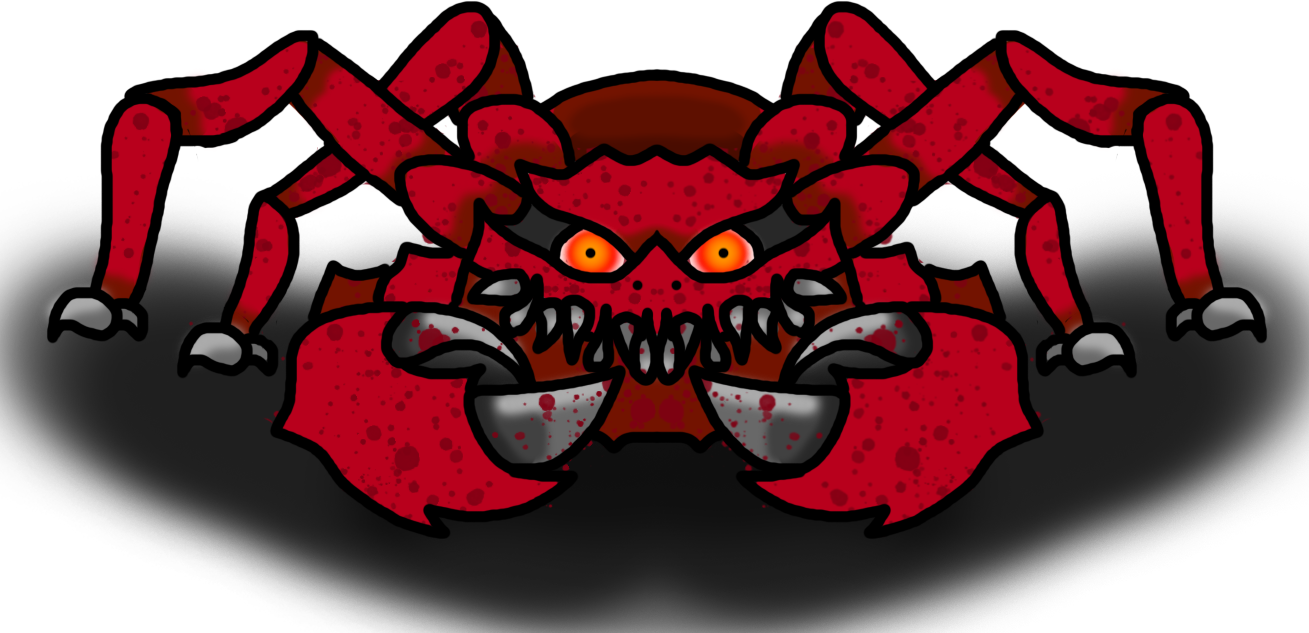
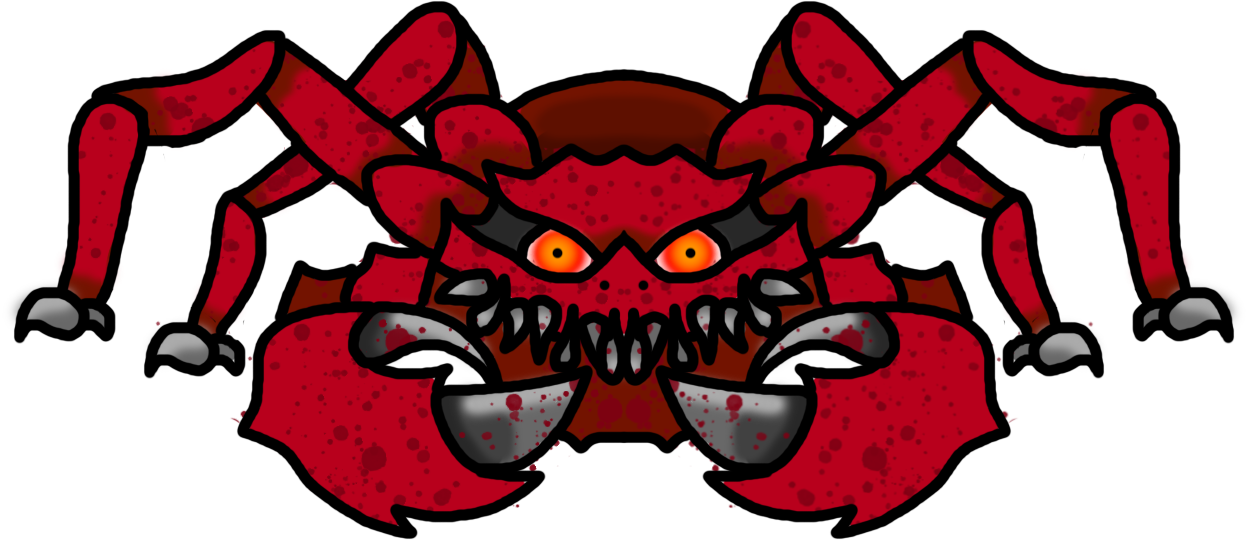
Pickup-able Items

diff --git a/GLFramework/SDL_Template/PlayScreen.cpp b/GLFramework/SDL_Template/PlayScreen.cpp
@@ -49,9 +49,17 @@ PlayScreen::PlayScreen() {
 
 	delete mGUI;
 	mGUI = new GUIManager("E");
-	mGUI->Parent(mCrystal);
-	mGUI->Position(Vector2(80.0f, -80.0f));
+	mGUI->Parent(this);
+	mGUI->Position(mCrystal->Position());
 	mGUI->Active(true);
+
+	mRuinsBackground = new GLTexture("RuinsBackground.png");
+	mRuinsBackground->Parent(this);
+	mRuinsBackground->Position(Graphics::SCREEN_WIDTH * 0.5f, Graphics::SCREEN_HEIGHT * 0.5f);
+	mRuinsBackground->Active(true);
+
+	mSpawnCrabShell = false;
+	mSpawnItemLock = false;
 
 	SDL_ShowCursor(SDL_DISABLE);
 }
@@ -80,6 +88,9 @@ PlayScreen::~PlayScreen() {
 
 	delete mGUI;
 	mGUI = nullptr;
+
+	delete mRuinsBackground;
+	mRuinsBackground = nullptr;
 }
 
 void PlayScreen::Update() {
@@ -94,12 +105,30 @@ void PlayScreen::Update() {
 		}
 	}
 	
+	mRuinsBackground->Update();
 	mGUI->Update();
 	mPlayer->Update();	
 	mCursor->Update();
 	mInventory->Update();
 	mGun->Update();
 	mCrystal->Update();
+
+	for (auto it = mDroppedItems.begin(); it != mDroppedItems.end(); ) {
+		(*it)->Update();
+
+		if ((*it)->GetGiveItem() == true) {
+			mInventory->AddItem((*it)->GetTag());
+			(*it)->SetGiveItem(false);
+
+			mDelDroppedItems.push_back(*it);
+			it = mDroppedItems.erase(it);
+		}
+		else {
+			++it;
+		}
+		
+	}
+
 	mCursor->Position(mInput->MousePosition());
 	MenuOpen();
 
@@ -108,23 +137,49 @@ void PlayScreen::Update() {
 		mCrystal->SetGiveItem(false);
 	}
 
+	
+
 	mGun->SetTargetPos(mPlayer->Position());
 
+	if (!mSpawnItemLock) {
+		if (mTarantuCrab == nullptr) {
+			//mSpawnCrabShell = true; 
+			SpawnDroppedItem();
+			mSpawnItemLock = true;
+		}
+	}
+	
+	for (auto b : mDelDroppedItems) {
+		delete b;
+	}
+	mDelDroppedItems.clear();
 }
 
 void PlayScreen::Render() {
 
-	if (mTarantuCrab != nullptr) {
-		mTarantuCrab->Render();
-	}
+	mRuinsBackground->Render();
+
+	if (mTarantuCrab != nullptr) { mTarantuCrab->Render(); }
 	
 	mCrystal->Render();
+
+	for (auto it = mDroppedItems.begin(); it != mDroppedItems.end(); ++it) {
+		(*it)->Render();
+		if ((*it) != nullptr && (*it)->GetRenderGUI() == true) {
+			mGUI->Position((*it)->Position()); mGUI->Render();
+		}
+		
+	}
+
 	mPlayer->Render();
 	mGun->Render();
 	mInventory->Render();
 	mCursor->Render();
 
-	if (mCrystal->GetRenderGUI() == true) { mGUI->Render(); }
+	if (mCrystal->GetRenderGUI() == true) { 
+		mGUI->Position(mCrystal->Position()); mGUI->Render();
+	}
+
 }
 
 void PlayScreen::MenuOpen() {
@@ -134,4 +189,13 @@ void PlayScreen::MenuOpen() {
 	else {
 		mGun->CanShoot(true);
 	}
+}
+
+void PlayScreen::SpawnDroppedItem() {
+	mDroppedCrabShell = new WorldItem("crab shell");
+	mDroppedCrabShell->Parent(this);
+	mDroppedCrabShell->Position(Graphics::SCREEN_WIDTH * 0.5f, Graphics::SCREEN_HEIGHT * 0.5f);
+	mDroppedCrabShell->Active(true);
+	mDroppedCrabShell->SetTag("crab shell");
+	mDroppedItems.push_back(mDroppedCrabShell);
 }

diff --git a/GLFramework/SDL_Template/WorldItem.cpp b/GLFramework/SDL_Template/WorldItem.cpp
@@ -25,6 +25,11 @@ WorldItem::WorldItem(std::string texture) {
 	mMinedCrystal->Position(Vec2_Zero);
 	mMinedCrystal->Scale(Vector2(0.10f, 0.10f));
 
+	mDroppedCrabShell = new GLTexture("CrabShell.png");
+	mDroppedCrabShell->Parent(this);
+	mDroppedCrabShell->Position(Vec2_Zero);
+	mDroppedCrabShell->Scale(Vector2(0.10f, 0.10f));
+
 	AddCollider(new CircleCollider(mCrystal->ScaledDimensions().y));
 
 	mId = PhysicsManager::Instance()->RegisterEntity(this, PhysicsManager::CollisionLayers::Hostile);
@@ -41,6 +46,8 @@ WorldItem::~WorldItem() {
 	delete mMinedCrystal;
 	mMinedCrystal = nullptr;
 
+	delete mDroppedCrabShell;
+	mDroppedCrabShell = nullptr;
 }
 
 bool WorldItem::IgnoreCollisions()	{
@@ -56,9 +63,9 @@ void WorldItem::Hit(PhysEntity* other) {
 void WorldItem::Update() {
 	mRenderGUI = false;
 	
-	if (mTexture == "crystal") { mCrystal->Update(); }
-	if (mTexture == "crystal") { mMinedCrystal->Update(); }
-
+	if (mTexture == "crystal") { mCrystal->Update(); mMinedCrystal->Update(); }
+	else if (mTexture == "crab shell") { mDroppedCrabShell->Update(); }
+	
 	if (!mMined && mWasHit) { mRenderGUI = true; }
 	else { mRenderGUI = false; }
 
@@ -68,7 +75,9 @@ void WorldItem::Update() {
 			mGiveItem = true;
 		}
 		mWasHit = false;
-	}	
+	}
+
+	std::cout << mTag << " " << mRenderGUI << std::endl;
 }
 
 void WorldItem::Render() {
@@ -77,6 +86,11 @@ void WorldItem::Render() {
 			mCrystal->Render();
 		}
 		else { mMinedCrystal->Render(); }
+	}
+	else if (mTexture == "crab shell") {
+		if (mMined == false) {
+			mDroppedCrabShell->Render();
+		}
 	}
 
 	PhysEntity::Render();

diff --git a/GLFramework/SDL_Template/Enemy.cpp b/GLFramework/SDL_Template/Enemy.cpp
@@ -21,8 +21,13 @@ Enemy::Enemy() {
 
 	mEyeLids = new GLTexture("Tarantu-Crab EyeLids.png");
 	mEyeLids->Parent(this);
-	mEyeLids->Position(Vector2(0.0f, -50.0f));
+	mEyeLids->Position(Vector2(0.0f, -15.0f));
 	mEyeLids->Scale(Vector2(0.750f, 0.750f));
+
+	mShadow = new GLTexture("Tarantu-Crab Shadow.png");
+	mShadow->Parent(this);
+	mShadow->Position(Vector2(0.0f, 75.0f));
+	mShadow->Scale(Vector2(0.750f, 0.750f));
 
 	delete mEGun;
 	mEGun = new Gun();
@@ -49,6 +54,9 @@ Enemy::~Enemy() {
 	delete mEyeLids;
 	mEyeLids = nullptr;
 
+	delete mShadow;
+	mShadow = nullptr;
+
 	delete mEGun;
 	mEGun = nullptr;
 }
@@ -69,7 +77,6 @@ void Enemy::Update() {
 	if (mSleepState == true) { mEGun->CanShoot(false); mSpeed = 0; }
 	else { mEGun->CanShoot(true); mSpeed = 250; }
 
-	mEGun->Render();
 	mTexture->Update();
 	mEyeLids->Update();
 	std::cout << mHp << std::endl;
@@ -81,10 +88,11 @@ void Enemy::Update() {
 
 void Enemy::Render() {
 
+	mShadow->Render();
+	mEGun->Render();
 	mTexture->Render();
 	if (mSleepState) { mEyeLids->Render(); }
-	mEGun->Render();
-
+	
 	PhysEntity::Render();
 }
 

diff --git a/GLFramework/SDL_Template/Item.cpp b/GLFramework/SDL_Template/Item.cpp
@@ -45,6 +45,9 @@ Item::~Item() {
 
 	delete mCrystalShard;
 	mCrystalShard = nullptr;
+
+	delete mCrabShell;
+	mCrabShell = nullptr;
 }
 
 void Item::Visible(bool visible) {
@@ -96,6 +99,8 @@ void Item::Render() {
 			else if (mTexture == "legendary") { mLegTexture->Render(); }
 
 			if (mItem == "crystal shard") { mCrystalShard->Render(); }
+			else if (mItem == "crab shell") { mCrabShell->Render(); }
+			else if (mItem == "starter gun") { mStarterGun->Render(); }
 		}
 	}
 
@@ -131,7 +136,18 @@ void Item::ItemTexture() {
 		mCrystalShard->Position(Vec2_Zero);
 		mCrystalShard->Scale(Vector2(0.25f, 0.25f));
 	}
-	
+	else if (mItem == "crab shell") {
+		mCrabShell = new GLTexture("CrabShell.png");
+		mCrabShell->Parent(this);
+		mCrabShell->Position(Vec2_Zero);
+		mCrabShell->Scale(Vector2(0.25f, 0.25f));
+	}
+	else if (mItem == "starter gun") {
+		mStarterGun = new GLTexture("StarterBlaster.png");
+		mStarterGun->Parent(this);
+		mStarterGun->Position(Vec2_Zero);
+		mStarterGun->Scale(Vector2(0.20f, 0.20f));
+	}
 }
 
 void Item::SetEquiped(bool equipe) {

diff --git a/GLFramework/SDL_Template/PlayScreen.h b/GLFramework/SDL_Template/PlayScreen.h
@@ -22,10 +22,22 @@ private:
 	Cursor* mCursor;
 	Enemy* mTarantuCrab;
 	WorldItem* mCrystal;
+	WorldItem* mDroppedCrabShell;
 	GUIManager* mGUI;
+
+	//Background Textures
+	Texture* mRuinsBackground;
+
+	bool mSpawnCrabShell;
+	bool mSpawnItemLock;
 
 	static const int MAX_ENEMIES = 10;
 	Enemy* mEnemies[MAX_ENEMIES];
+
+	static const int MAX_DROPPED_ITEMS = 10;
+	std::vector<WorldItem*> mDroppedItems;
+	std::vector<WorldItem*> mDelDroppedItems;
+
 public:
 	PlayScreen();
 	~PlayScreen();
@@ -35,5 +47,7 @@ public:
 
 	void MenuOpen();
 	void OnItem();
+
+	void SpawnDroppedItem();
 };
 #endif

diff --git a/GLFramework/SDL_Template/Inventory.cpp b/GLFramework/SDL_Template/Inventory.cpp
@@ -30,7 +30,7 @@ Inventory::Inventory() {
 	InventorySocketInit();
 	EquipedSocketInit();
 
-	CreateItem(mLegendaryGun, "legendary", "Gun", "gun");
+	CreateItem(mLegendaryGun, "legendary", "Gun", "starter gun");
 	CreateItem(mRareArti, "rare", "Arti", "arti");
 	CreateItem(mEpicArti, "epic", "Arti", "arti");
 
@@ -493,4 +493,5 @@ void Inventory::InventorySocketInit() {
 
 void Inventory::AddItem(std::string tag) {
 	if (tag == "crystal") { CreateItem(mCrystalShard, "epic", "Mat", "crystal shard"); }
+	else if (tag == "crab shell") { CreateItem(mCrabShell, "epic", "Mat", "crab shell"); }
 }

diff --git a/GLFramework/SDL_Template/Item.h b/GLFramework/SDL_Template/Item.h
@@ -29,6 +29,8 @@ private:
 	Texture* mLegTexture;
 
 	Texture* mCrystalShard;
+	Texture* mCrabShell;
+	Texture* mStarterGun;
 
 	float mMoveSpeed;
 	Vector2 mMoveBounds;

diff --git a/GLFramework/SDL_Template/WorldItem.h b/GLFramework/SDL_Template/WorldItem.h
@@ -15,6 +15,8 @@ private:
 	Texture* mCrystal;
 	Texture* mMinedCrystal;
 
+	Texture* mDroppedCrabShell;
+
 	std::string mTexture;
 	bool mVisible;
 	bool mAnimating;

diff --git a/GLFramework/SDL_Template/Inventory.h b/GLFramework/SDL_Template/Inventory.h
@@ -21,6 +21,7 @@ private:
 	Item* mEpicArti;
 
 	Item* mCrystalShard;
+	Item* mCrabShell;
 
 	bool mVisible;
 	bool mAnimating;

diff --git a/GLFramework/SDL_Template/Enemy.h b/GLFramework/SDL_Template/Enemy.h
@@ -14,6 +14,7 @@ private:
 
 	Texture* mTexture;
 	Texture* mEyeLids;
+	Texture* mShadow;
 	Gun* mEGun;
 
 	bool mVisible;
